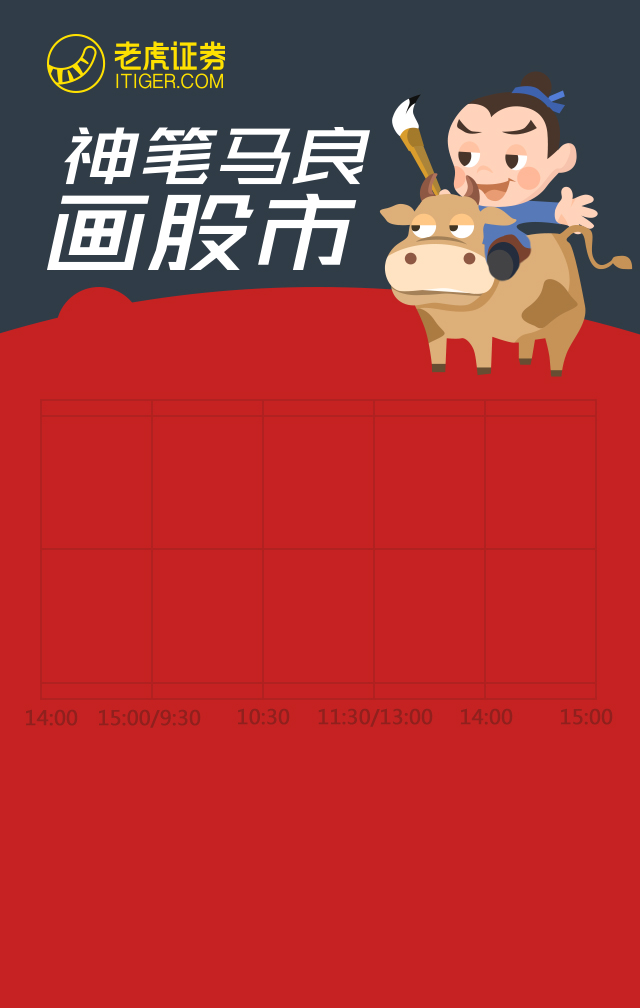
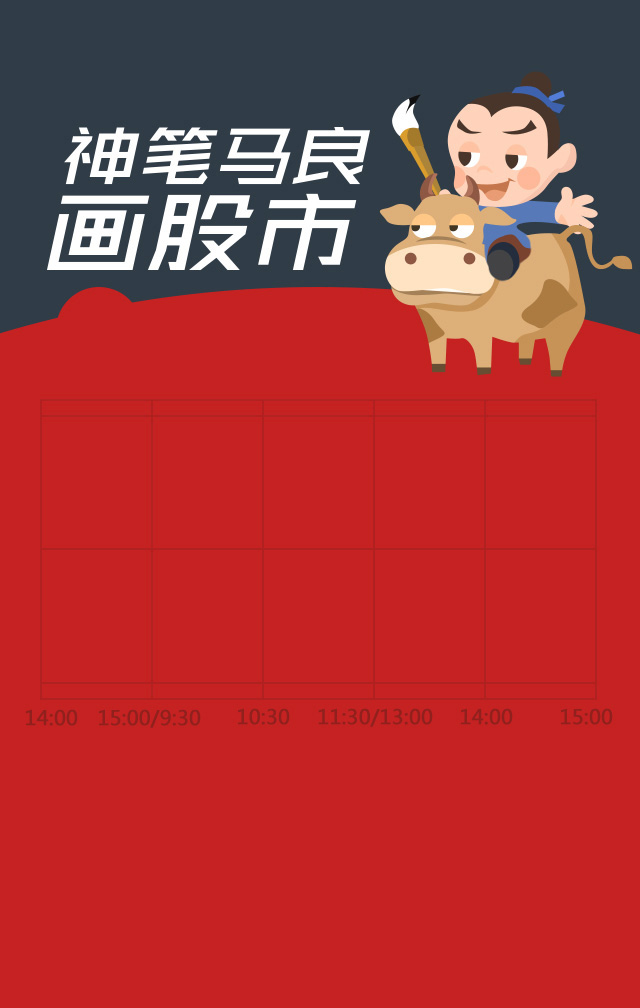
detail

Changed region(s): [[0.0625, 0.0308, 0.375, 0.0923]]

diff --git a/templates/index.html b/templates/index.html
@@ -20,6 +20,7 @@
 </head>
 <body>
     <div class="container">
+        <img class="logo" src="{{ STATIC_URL }}images/logo.png" />
         <button class="reset"></button>
         <div class="reset-text">重画</div>
         <canvas id="trend"></canvas>
@@ -48,7 +49,8 @@
     <div id="rank2" class="rank">
         <div class="rank-text1">天了噜！你是第<span>{{ count }}</span>位玩家，</div>
         <div class="rank-text2">你的股商<span id="credit2">分</span>！</div>
-        <div class="rank-text3">你是思想的巨人行动的矮子，速来老虎学院开启你的致富路。</div>
+        <div class="rank-text3">你是思想的巨人行动的矮子，</div>
+        <div class="rank-text3">速来老虎学院开启你的致富路。</div>
     </div>
     <div id="rank3" class="rank">
         <div class="rank-text1">天了噜！你是第<span>{{ count }}</span>位预测的玩家，</div>

diff --git a/assets/script/index.js b/assets/script/index.js
@@ -34,8 +34,8 @@ $(function() {
     var eleTop;
     var eleLeft;
 
-    //$.get('/api/getData', function(data) {
-    $.get('/static/script/data.json', function(data) {
+    $.get('/api/getData', function(data) {
+    //$.get('/static/script/data.json', function(data) {
         drawDatacopy = data;
 
         drawData = new DrawData(c, data, width, height);
@@ -109,7 +109,7 @@ $(function() {
     });
 
     configWechat({
-        'title': '我预测股市这么走，你也来画一手吧！',
+        'title': '城会玩|你适合炒股吗？快来测测你的股商！',
         'desc': 'A股大盘震荡，深V调整，一起来当神笔马良。' + $('#username').text() + '预测了' + $('#date').text() + '的大盘走势。。。',
         'imgUrl': $('#avatar').text(),
         'link': 'http://' + window.location.hostname + '/share/' + $('#id').text()

diff --git a/assets/script/weixinshare.js b/assets/script/weixinshare.js
@@ -30,7 +30,7 @@ function configWechat(shareData) {
 }
 
 function configContent(shareData) {
-    var title = '神笔马良画股市：大盘怎么走？你来画一手！';
+    var title = '城会玩|你适合炒股吗？快来测测你的股商！';
     var link = 'http://' + window.location.hostname;
     var imgUrl = 'http://' + window.location.hostname + '/static/images/wechatshare.jpg';
     var desc = '小虎下战帖，诚邀各路英雄画线预测大盘。速来参战，看谁才是真正的神笔马良！';

diff --git a/assets/style/index.css b/assets/style/index.css
@@ -20,6 +20,13 @@ input:-moz-placeholder { color:#681412; }
     overflow: hidden;
 }
 
+.logo {
+    position: absolute;
+    top: 3.37%;
+    left: 7.34%;
+    height: 5.85%; 
+}
+
 .reset {
     position: absolute;
     top: 29%;
@@ -167,6 +174,9 @@ button.share {
     color: #fff;
     text-align: center;
     font-size: 15px;
+}
+.rank-text3+.rank-text3 {
+    margin-top: 6px;
 }
 .rank span {
     color: #ffe100;

diff --git a/portal/views.py b/portal/views.py
@@ -25,7 +25,6 @@ def login(request):
 @login_required
 def index(request):
     user = request.user
-    #user = User.objects.get(id=1)
     social_user = UserSocialAuth.objects.get(user_id=user.id)
     username = social_user.extra_data['username']
     avatar = social_user.extra_data['profile_image_url']
